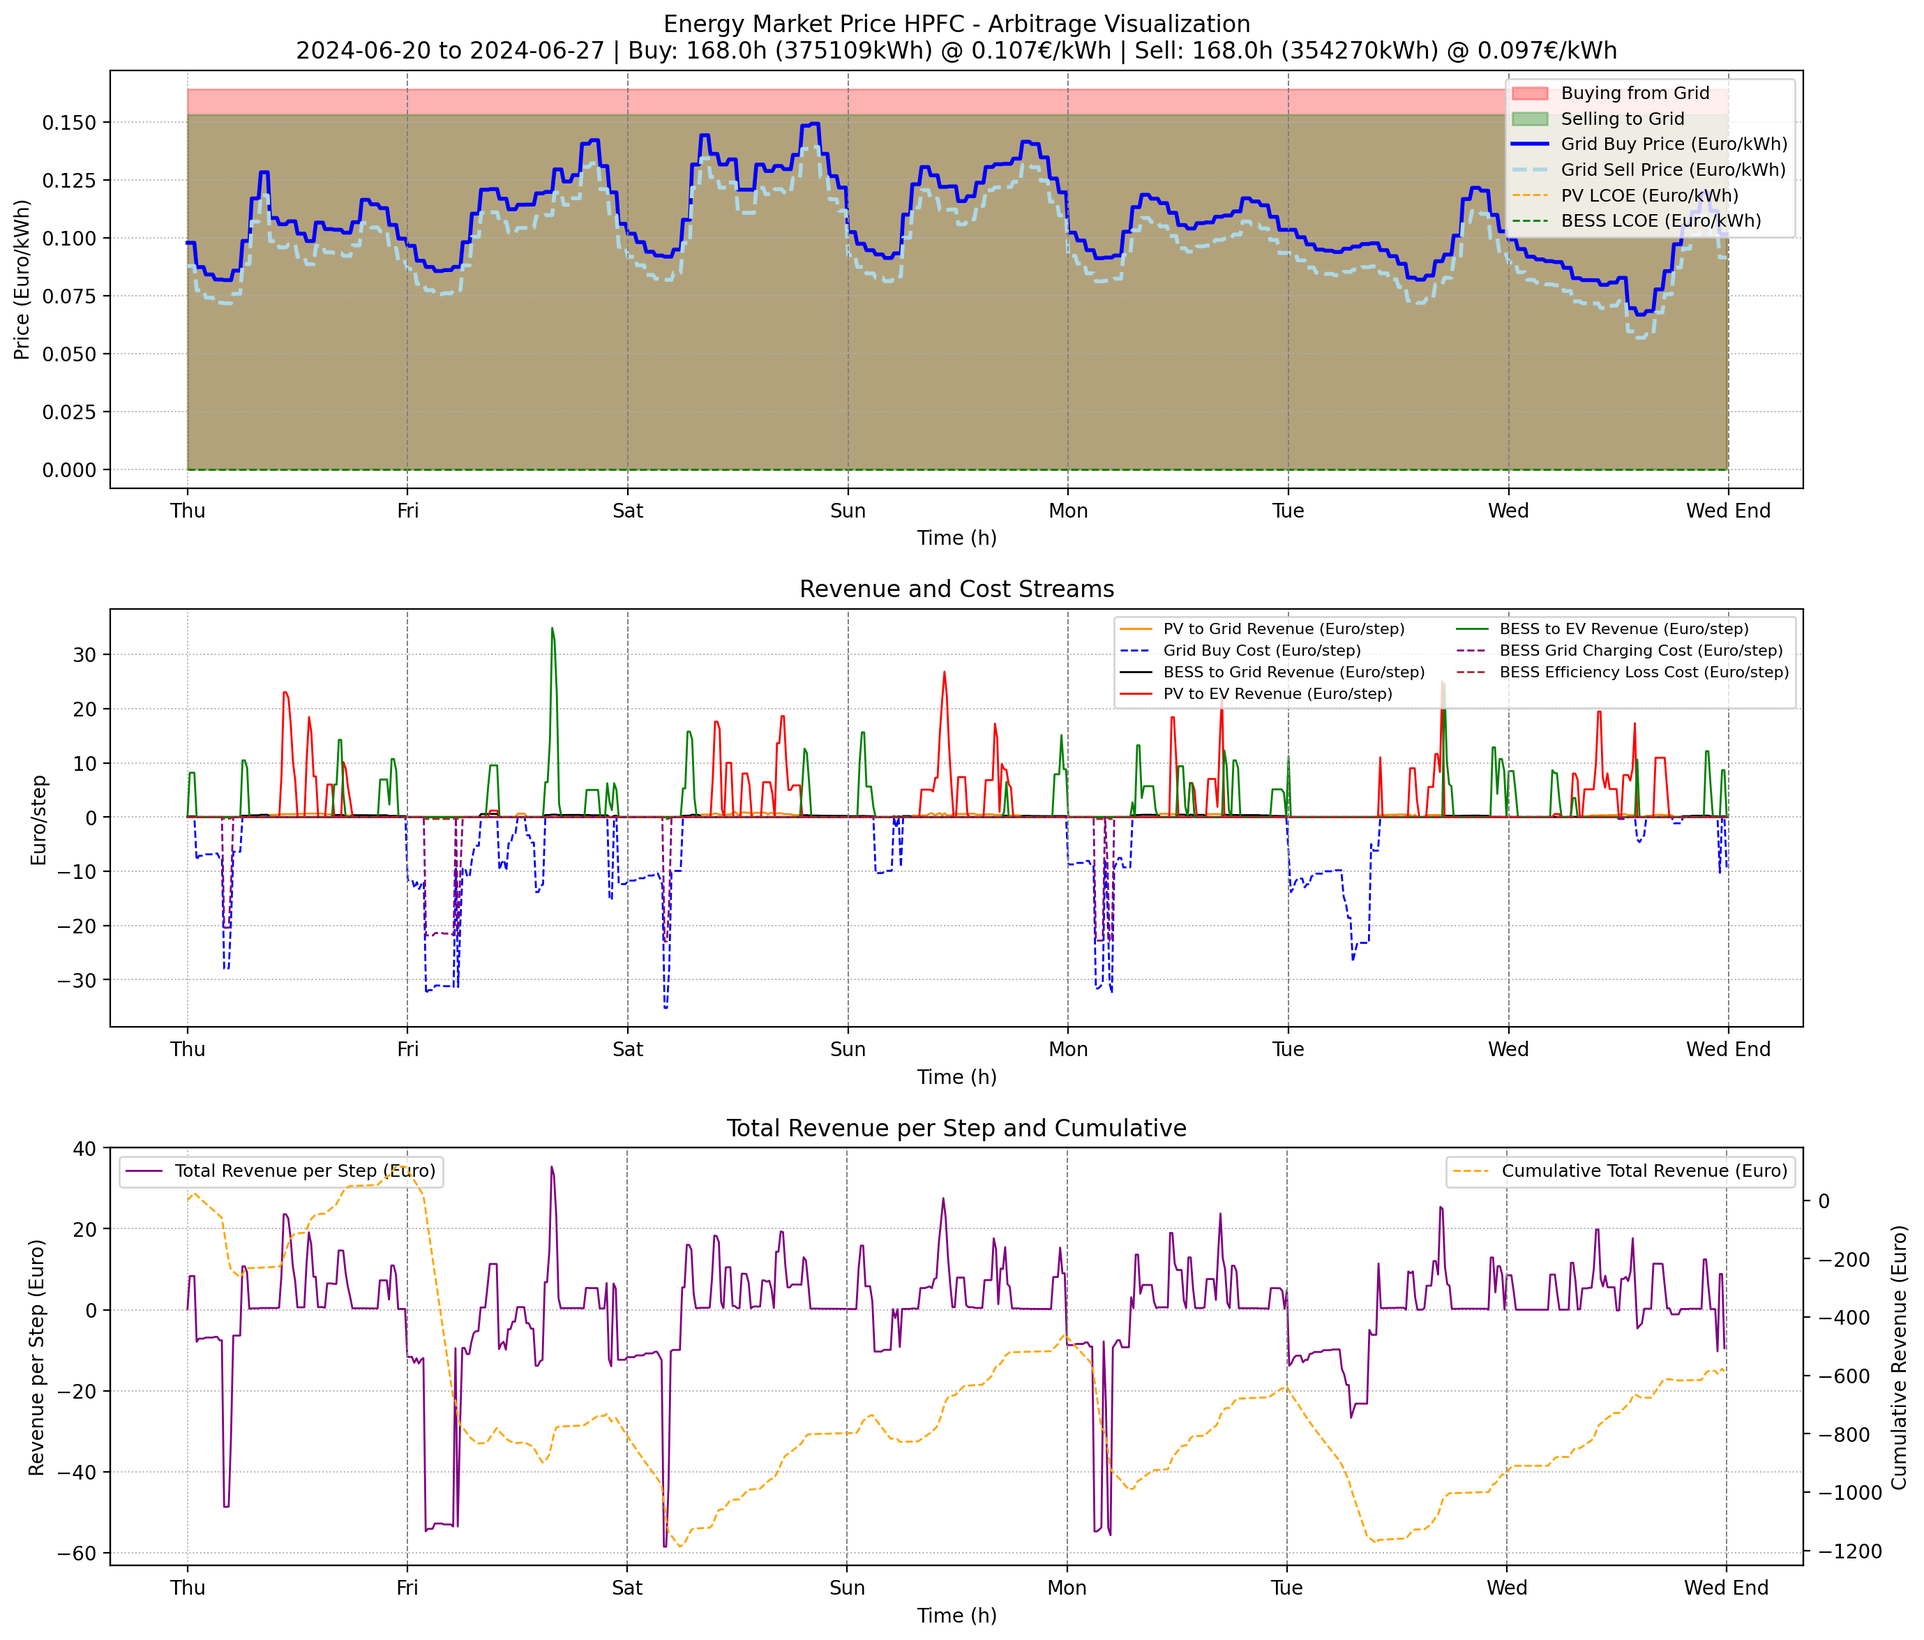
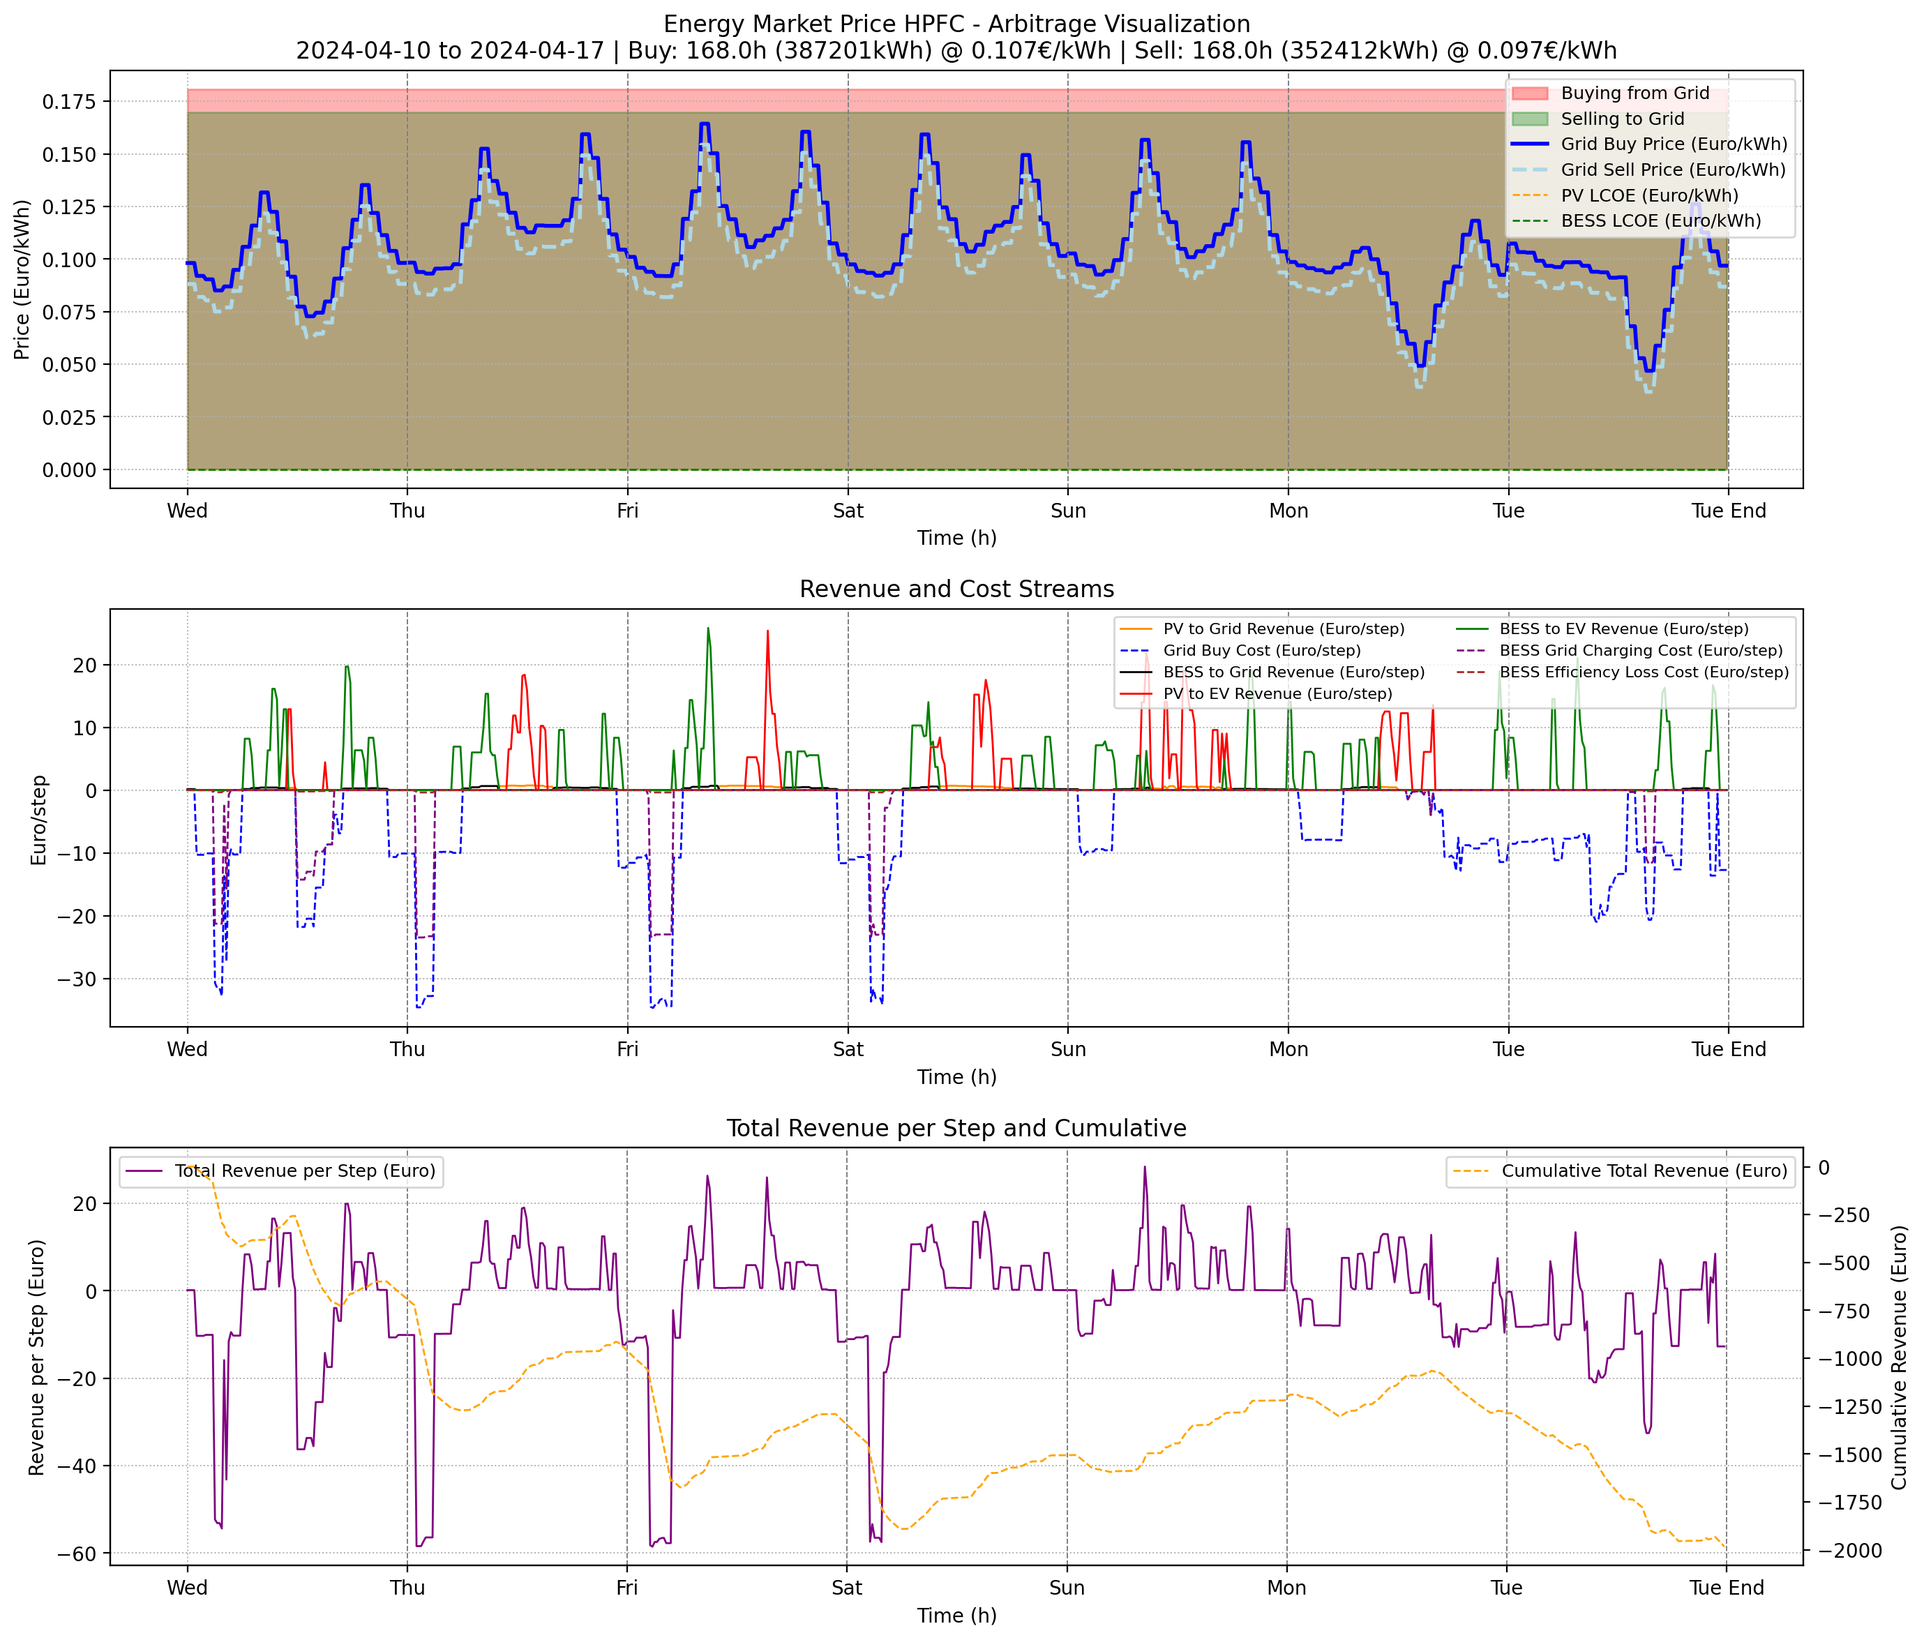
api price mmmh

diff --git a/Computing Files/Controller/mpc.py b/Computing Files/Controller/mpc.py
@@ -59,49 +59,50 @@ class MPC:
                   marginal_cost=0,
                   state_of_charge_initial=soc)
         
-        # Link for grid charging BESS
-        n.add("Link", "Grid_to_BESS", bus0="Grid", bus1="BESS", p_nom=self.bess_power_limit, efficiency=self.eta_charge, marginal_cost=0)
-        #Cost when charging from Grid
+        # Link for grid charging BESS (AC -> DC)
+        n.add("Link", "Grid_to_BESS", bus0="Grid", bus1="BESS",
+              p_nom=self.bess_power_limit, efficiency=self.eta_charge, marginal_cost=0)
+        # Cost when charging from Grid
         n.links_t.marginal_cost["Grid_to_BESS"] = pd.Series(buy_forecast, index=n.snapshots)
         
-        # Link for PV charging BESS
-        n.add("Link", "PV_to_BESS", bus0="PV", bus1="BESS", p_nom=self.bess_power_limit, efficiency=self.eta_charge, marginal_cost=0)
+        # Link for PV charging BESS (DC -> DC)
+        n.add("Link", "PV_to_BESS", bus0="PV", bus1="BESS",
+              p_nom=self.bess_power_limit, efficiency=self.eta_charge, marginal_cost=0)
         
-        # Link for BESS discharge to AC bus
-        n.add("Link", "BESS_to_AC", bus0="BESS", bus1="AC", p_nom=self.bess_power_limit, efficiency=self.eta_discharge, marginal_cost=0)
+        # Link for BESS discharge to AC bus (DC -> AC)
+        n.add("Link", "BESS_to_AC", bus0="BESS", bus1="AC",
+              p_nom=self.bess_power_limit, efficiency=self.eta_discharge, marginal_cost=0)
 
-        # DC/AC converter for PV direct supply to AC bus
-        n.add("Link", "PV_to_AC", bus0="PV", bus1="AC", p_nom=pv_nom, efficiency=0.98, marginal_cost=0)
+        # DC/AC converter for PV direct supply to AC bus (DC -> AC)
+        n.add("Link", "PV_to_AC", bus0="PV", bus1="AC",
+              p_nom=pv_nom, efficiency=0.98, marginal_cost=0)
 
         # Grid import/export as Links
         max_grid_import = np.max(demand_forecast) + np.max(ev_forecast) + self.bess_power_limit
         max_grid_export = np.max(pv_forecast) + self.bess_power_limit
-        n.add("Link", "Grid_Import", bus0="Grid", bus1="AC", p_nom=max_grid_import, efficiency=1.0, marginal_cost=0, carrier='AC')
-        n.add("Link", "Grid_Export", bus0="AC", bus1="Grid", p_nom=max_grid_export, efficiency=1.0, marginal_cost=0, carrier='AC')
+        n.add("Link", "Grid_Import", bus0="Grid", bus1="AC",
+              p_nom=max_grid_import, efficiency=1.0, marginal_cost=0, carrier='AC')
+        n.add("Link", "Grid_Export", bus0="AC", bus1="Grid",
+              p_nom=max_grid_export, efficiency=1.0, marginal_cost=0, carrier='AC')
         
         # Grid source generator (reference, cost = buy_forecast)
         n.add("Generator", "Grid_Source", bus="Grid", p_nom=1e9, marginal_cost=0)
         
-        #Revenue of selling Energy
+        # Revenue of selling Energy
         n.links_t.marginal_cost["Grid_Export"] = -pd.Series(sell_forecast, index=n.snapshots)
-        
-        #Cost of Energy Bought from Grid
+        # Cost of Energy Bought from Grid
         n.generators_t.marginal_cost["Grid_Source"] = pd.Series(buy_forecast, index=n.snapshots)
 
-        # Loads with incentive EV at pi_ev, cons at pi_consumer
+        # Loads: Consumer on AC, EV on DC (BESS bus)  << FIXED
         n.add("Load", "Consumer", bus="AC", p_set=0, marginal_cost=0)
-        n.add("Load", "EV", bus="AC", p_set=0, marginal_cost=0)
+        n.add("Load", "EV", bus="BESS", p_set=0, marginal_cost=0)  # moved to DC side
         n.loads_t.p_set.loc[:, "Consumer"] = demand_forecast
         n.loads_t.p_set.loc[:, "EV"] = ev_forecast
-
-        # Add dummy curtailment load on DC to penalize curtailment (lower penalty)
-        #curtailment_penalty = 0.01  # Much lower penalty, allows curtailment if needed
-        #n.add("Load", "Curtail", bus="DC", p_set=0, marginal_cost=curtailment_penalty)
 
         # Create model
         n.optimize.create_model()
 
-        # Add explicit energy balance constraints for physical feasibility
+        # Add SOC bounds for feasibility (keep as before)
         if "BESS" in n.storage_units.index:
             min_soc = self.bess_capacity * self.bess_percent_limit
             max_soc = self.bess_capacity
@@ -109,28 +110,7 @@ class MPC:
             n.model.add_constraints(soc_var >= min_soc, name="SOC_min")
             n.model.add_constraints(soc_var <= max_soc, name="SOC_max")
 
-        # Add explicit nodal balance constraints
-        try:
-            # DC bus balance: PV generation = PV to BESS + PV to AC
-            if "PV" in n.generators.index and "PV_to_BESS" in n.links.index and "PV_to_AC" in n.links.index:
-                pv_gen = n.model["Generator-p"]["PV"]
-                pv_to_bess = n.model["Link-p"]["PV_to_BESS"]
-                pv_to_ac = n.model["Link-p"]["PV_to_AC"]
-                n.model.add_constraints(pv_gen == pv_to_bess + pv_to_ac, name="DC_Balance")
-            
-            # AC bus balance: PV to AC + BESS to AC + Grid Import = Consumer + EV + Grid Export
-            if "PV_to_AC" in n.links.index and "BESS_to_AC" in n.links.index:
-                pv_to_ac = n.model["Link-p"]["PV_to_AC"]
-                bess_to_ac = n.model["Link-p"]["BESS_to_AC"]
-                grid_import = n.model["Link-p"]["Grid_Import"]
-                grid_export = n.model["Link-p"]["Grid_Export"]
-                consumer_load = n.model["Load-p"]["Consumer"]
-                ev_load = n.model["Load-p"]["EV"]
-                n.model.add_constraints(pv_to_ac + bess_to_ac + grid_import == consumer_load + ev_load + grid_export, name="AC_Balance")
-                
-        except Exception as e:
-            print(f"Warning: Could not add explicit balance constraints: {e}")
-            print("PyPSA will use default nodal balance constraints")
+        # (Do not add extra nodal balance constraints: PyPSA already enforces them per bus.)
 
         try:
             n.optimize.solve_model(solver_name="highs", solver_options={"parallel": "on"})
@@ -150,18 +130,19 @@ class MPC:
             soc_next = soc
             pv_gen = 0
             link_dc_to_ac = 0
+            pv_to_ac_p0 = 0
+            bess_to_ac_p0 = 0
             grid_import = 0
             grid_export = 0
+            grid_to_bess_p0 = 0
+            pv_to_bess_p0 = 0
             consumer_load = demand_forecast[0]
             ev_load = ev_forecast[0]
         else:
-            # Defensive extraction for PV
-            if "PV" in n.generators_t.p.columns:
-                pv_gen = n.generators_t.p["PV"].values[0]
-            else:
-                pv_gen = 0
+            # PV output
+            pv_gen = n.generators_t.p["PV"].values[0] if "PV" in n.generators_t.p.columns else 0
 
-            # Defensive extraction for BESS
+            # BESS dispatch (+ discharge to bus, - charge from bus)
             if "BESS" in n.storage_units_t.p.columns:
                 bess_dispatch = n.storage_units_t.p["BESS"].values[0]
                 soc_next = n.storage_units_t.state_of_charge["BESS"].values[0]
@@ -169,75 +150,77 @@ class MPC:
                 bess_dispatch = 0
                 soc_next = soc
 
-            # Defensive extraction for links
-            if "DC_AC_Converter" in n.links_t.p0.columns:
-                link_dc_to_ac = n.links_t.p0["DC_AC_Converter"].values[0]
-            else:
-                link_dc_to_ac = 0
-            if "Grid_Import" in n.links_t.p0.columns:
-                grid_import = n.links_t.p0["Grid_Import"].values[0]
-            else:
-                grid_import = 0
-            if "Grid_Export" in n.links_t.p0.columns:
-                grid_export = n.links_t.p0["Grid_Export"].values[0]
-            else:
-                grid_export = 0
-            
-            grid_to_bess = 0
-            if "Grid_to_BESS" in n.links_t.p0.columns:
-                grid_to_bess = n.links_t.p0["Grid_to_BESS"].values[0]
-            pv_to_bess = 0
-            if "PV_to_BESS" in n.links_t.p0.columns:
-                pv_to_bess = n.links_t.p0["PV_to_BESS"].values[0]
+            # Links (p0 = power at bus0 side)
+            pv_to_ac_p0 = n.links_t.p0["PV_to_AC"].values[0] if "PV_to_AC" in n.links_t.p0.columns else 0
+            bess_to_ac_p0 = n.links_t.p0["BESS_to_AC"].values[0] if "BESS_to_AC" in n.links_t.p0.columns else 0
+            grid_import = n.links_t.p0["Grid_Import"].values[0] if "Grid_Import" in n.links_t.p0.columns else 0
+            grid_export = n.links_t.p0["Grid_Export"].values[0] if "Grid_Export" in n.links_t.p0.columns else 0
+            grid_to_bess_p0 = n.links_t.p0["Grid_to_BESS"].values[0] if "Grid_to_BESS" in n.links_t.p0.columns else 0
+            pv_to_bess_p0 = n.links_t.p0["PV_to_BESS"].values[0] if "PV_to_BESS" in n.links_t.p0.columns else 0
 
-            # Defensive extraction for loads
-            if "Consumer" in n.loads_t.p.columns:
-                consumer_load = n.loads_t.p["Consumer"].values[0]
-            else:
-                consumer_load = 0
-            if "EV" in n.loads_t.p.columns:
-                ev_load = n.loads_t.p["EV"].values[0]
-            else:
-                ev_load = 0
+            # Loads
+            consumer_load = n.loads_t.p["Consumer"].values[0] if "Consumer" in n.loads_t.p.columns else 0
+            ev_load = n.loads_t.p["EV"].values[0] if "EV" in n.loads_t.p.columns else 0
 
-        # Add balance debug - improved energy balance checking
-        dc_balance = pv_gen - pv_to_bess - (link_dc_to_ac / self.converter_efficiency) - bess_dispatch
-        ac_balance = link_dc_to_ac + bess_dispatch - consumer_load - ev_load - grid_export + grid_import
-        
-        # Validate energy balance (allow small tolerance for numerical precision)
+            # Total DC->AC flow (at DC side)  << FIXED
+            link_dc_to_ac = pv_to_ac_p0 + bess_to_ac_p0
+
+        # ---------- Correct energy-balance diagnostics ----------
+
+        # DC aggregate balance (PV + BESS buses together).
+        # Convention:
+        #   Storage p (+) injects on DC, (-) consumes from DC.
+        #   DC->AC links use p0 at DC side; AC->DC link power arriving on DC is efficiency * p0.
+        #   EV load is on DC (BESS bus).
+        #   Internal DC transfer PV->BESS cancels on aggregate and is not included.
+        eta_grid_to_bess = n.links.at["Grid_to_BESS", "efficiency"] if "Grid_to_BESS" in n.links.index else self.eta_charge
+        dc_inflow_from_ac = eta_grid_to_bess * grid_to_bess_p0
+        dc_balance = (pv_gen + bess_dispatch + dc_inflow_from_ac) - (pv_to_ac_p0 + bess_to_ac_p0 + ev_load)
+
+        # AC balance:
+        #   PV->AC + BESS->AC + Grid_Import = Consumer + Grid_Export
+        ac_balance = (pv_to_ac_p0 + bess_to_ac_p0 + grid_import) - (consumer_load + grid_export)
+
         balance_tolerance = 0.1  # kW
         if abs(dc_balance) > balance_tolerance or abs(ac_balance) > balance_tolerance:
-            print(f"⚠  WARNING: Energy balance violation detected!")
-            print(f"   DC balance: {dc_balance:.3f} kW")
-            print(f"   AC balance: {ac_balance:.3f} kW")
+            print("⚠  WARNING: Energy balance check indicates mismatch (diagnostic only).")
+            print(f"   DC aggregate balance: {dc_balance:.3f} kW (should be ~0)")
+            print(f"   AC balance:           {ac_balance:.3f} kW (should be ~0)")
 
-        # Map DC to AC flow to demand and grid export
-        dc_to_ac_available = max(link_dc_to_ac, 0)
+        # ---------- Post-processing flows ----------
+
+        # DC->AC available to serve AC consumer and export
+        dc_to_ac_available = max(link_dc_to_ac, 0.0)
         pv_bess_to_consumer = min(dc_to_ac_available, consumer_load)
-        pv_bess_to_ev = min(max(0, dc_to_ac_available - pv_bess_to_consumer), ev_load)
-        pv_bess_to_grid = max(0, dc_to_ac_available - pv_bess_to_consumer - pv_bess_to_ev)
-        grid_to_consumer = max(0, consumer_load - pv_bess_to_consumer)
-        grid_to_ev = max(0, ev_load - pv_bess_to_ev)
+        pv_bess_to_grid = max(0.0, dc_to_ac_available - pv_bess_to_consumer)
+
+        # EV is on DC: renewable share approximated by DC renewable surplus after DC->AC exports
+        # (grid_to_bess energy is not counted as renewable)
+        renewable_dc_supply = max(0.0, pv_gen + max(bess_dispatch, 0.0) - (pv_to_ac_p0 + bess_to_ac_p0))
+        pv_bess_to_ev = min(ev_load, renewable_dc_supply)
+
+        grid_to_consumer = max(0.0, consumer_load - pv_bess_to_consumer)
+        grid_to_ev = max(0.0, ev_load - pv_bess_to_ev)
 
         # Calculate renewable share for EV charging and its revenue
-        ev_renewable_share = pv_bess_to_ev / ev_load if ev_load > 0 else 0
-        ev_revenue = pv_bess_to_ev * pi_ev  # Only renewable share, grid share is cost
+        ev_renewable_share = pv_bess_to_ev / ev_load if ev_load > 0 else 0.0
+        ev_revenue = pv_bess_to_ev * pi_ev  # Only renewable share, grid share is a cost elsewhere
 
         return {
-            'P_BESS': bess_dispatch,           # kW
+            'P_BESS': bess_dispatch,           # kW (+ discharge to DC bus, - charge from DC bus)
             'SOC_next': soc_next,              # kWh
             'P_BESS_discharge': np.maximum(bess_dispatch, 0),  # kW
-            'P_grid_to_bess': grid_to_bess,  # kW
+            'P_grid_to_bess': grid_to_bess_p0,  # kW at AC->DC link (AC side p0)
             'P_BESS_charge': np.abs(np.minimum(bess_dispatch, 0)),  # kW
             'P_PV_gen': pv_gen,                # kW
-            'P_link_dc_to_ac': link_dc_to_ac,  # kW
+            'P_link_dc_to_ac': link_dc_to_ac,  # kW (PV_to_AC p0 + BESS_to_AC p0)  << FIXED
             'P_grid_import': grid_import,      # kW
             'P_grid_export': grid_export,      # kW
-            'pv_bess_to_consumer': pv_bess_to_consumer,  # kW
-            'pv_bess_to_ev': pv_bess_to_ev,    # kW
-            'pv_bess_to_grid': pv_bess_to_grid, # kW
+            'pv_bess_to_consumer': pv_bess_to_consumer,  # kW (served via DC->AC)
+            'pv_bess_to_ev': pv_bess_to_ev,    # kW (served directly on DC)
+            'pv_bess_to_grid': pv_bess_to_grid, # kW (export via AC)
             'grid_to_consumer': grid_to_consumer, # kW
-            'grid_to_ev': grid_to_ev,          # kW
+            'grid_to_ev': grid_to_ev,          # kW (non-renewable share approx.)
             'ev_renewable_share': ev_renewable_share,
             'ev_revenue': ev_revenue,
             'bess_capacity': self.bess_capacity, # kWh
@@ -248,4 +231,3 @@ class MPC:
             'bess_percent_limit': self.bess_percent_limit,
             'slack': 0.0
         }
-

diff --git a/Computing Files/Controller/load_data.py b/Computing Files/Controller/load_data.py
@@ -40,7 +40,7 @@ def sanity_check(data):
     return True
 
 # Fetches grid prices from API, ITA file, or HPFC forecast, for HPFC set Base/Peak Price and normalisation mode
-def fetch_prices(start_dt, end_dt, price_source="HPFC", base_forecast=100.0, peak_forecast=120.0, normalisation="mean"):
+def fetch_prices(start_dt, end_dt, price_source="API", base_forecast=100.0, peak_forecast=120.0, normalisation="mean"):
     if price_source == "API":
         grid_buy_price_raw, grid_sell_price_raw = API_prices.fetch_prices()
     elif price_source == "HPFC":
